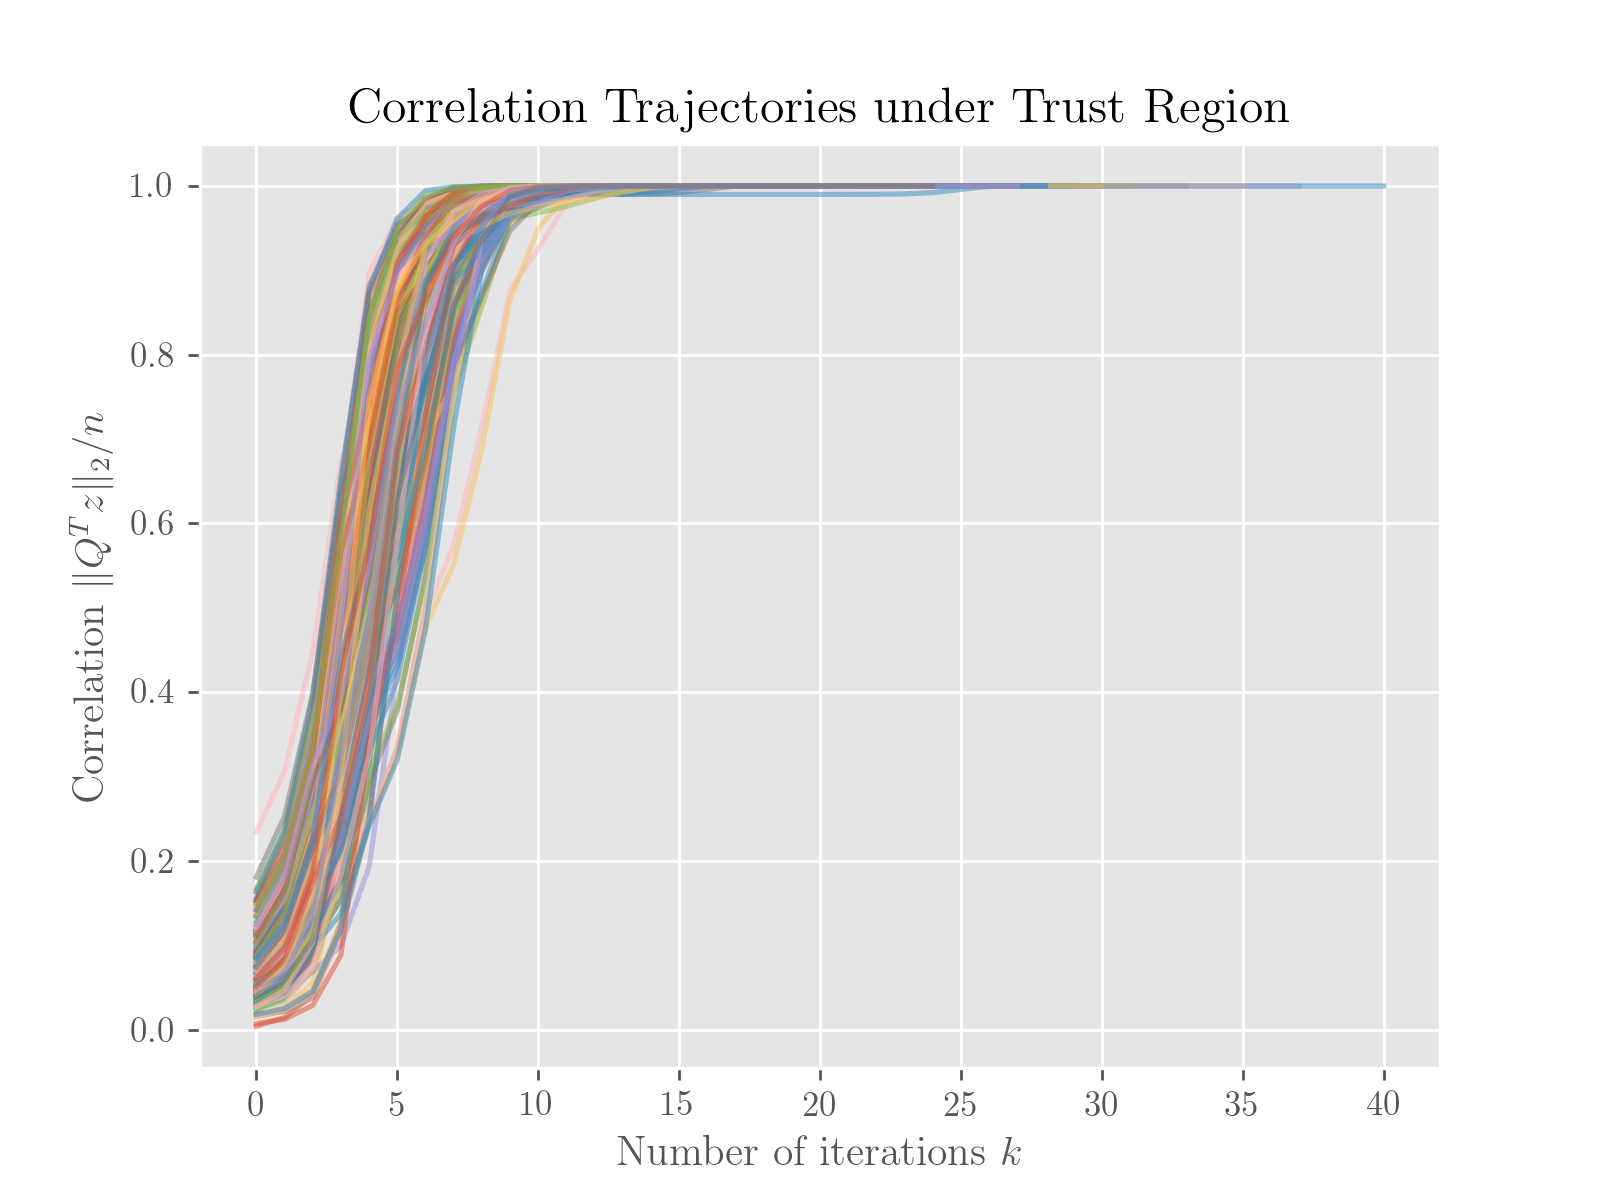
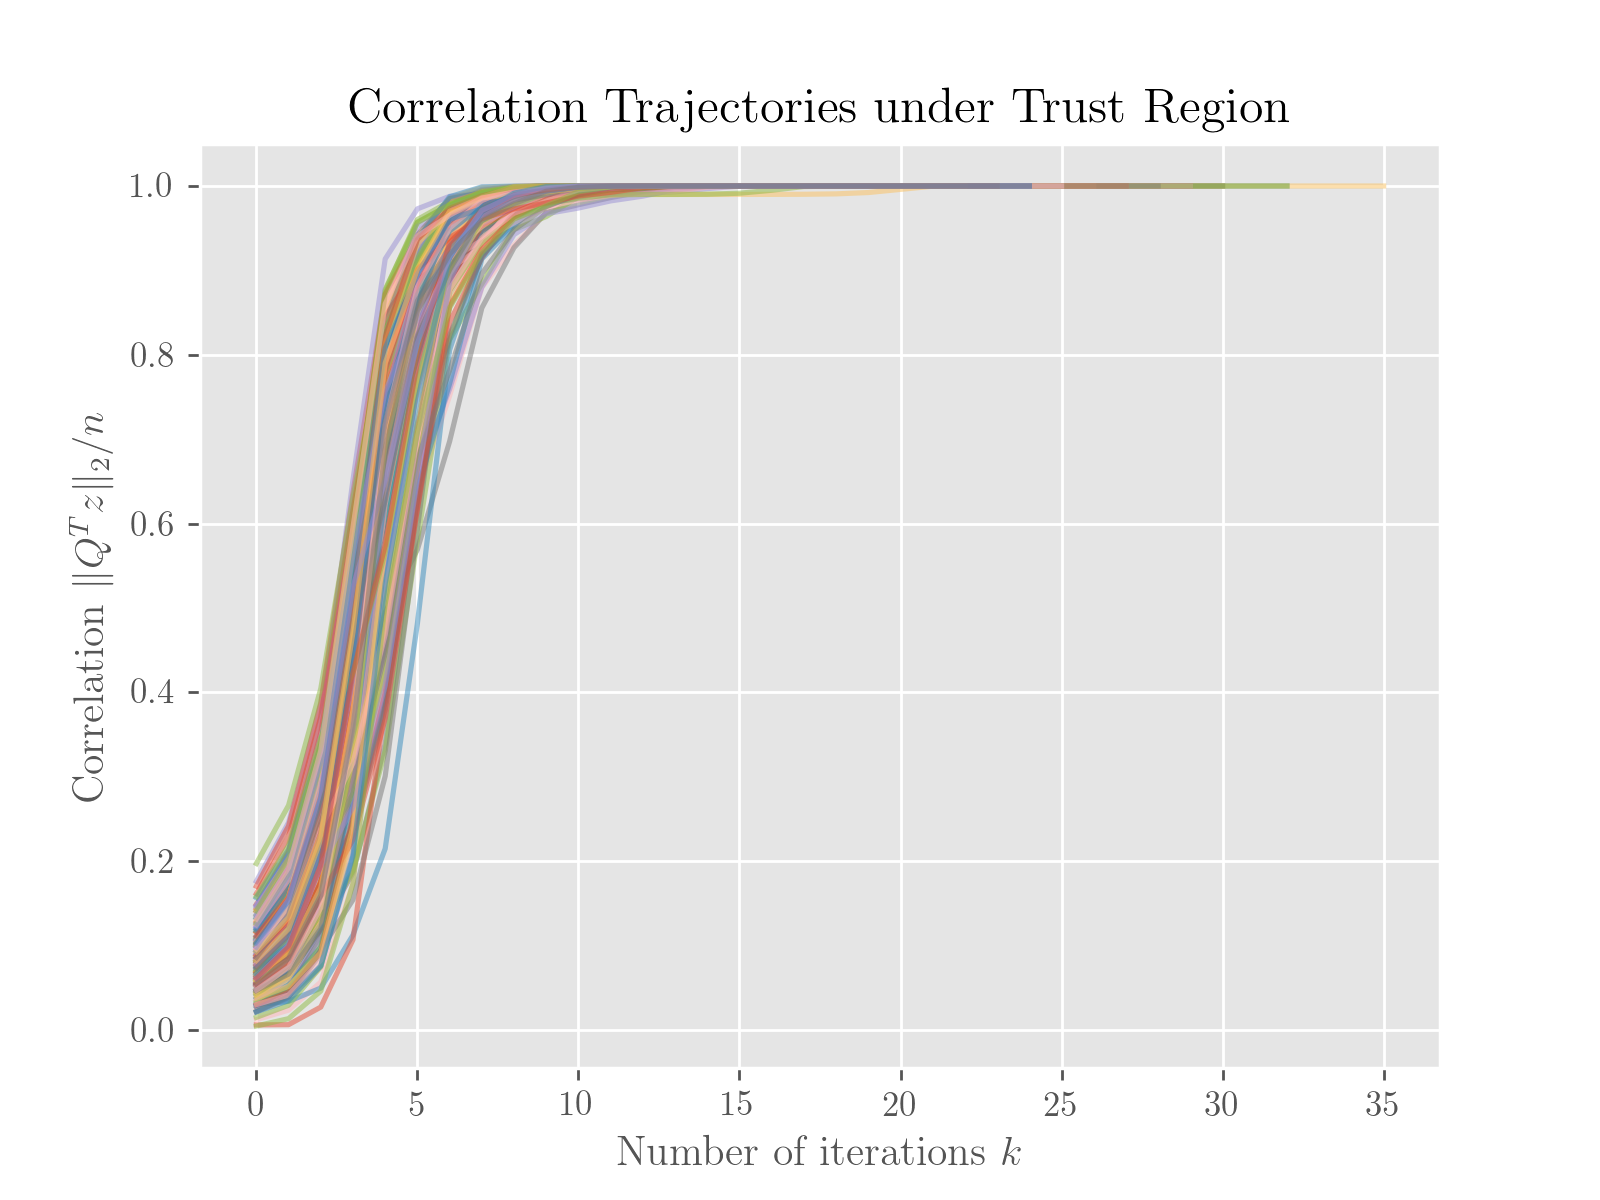
fix bug

diff --git a/basin_of_attraction.py b/basin_of_attraction.py
@@ -39,12 +39,12 @@ def correlation_landscape(A, z, loops):
     for i in range(loops):
         correlation_arr = []
         result = bm.trust_region(A, 2, plotting=False, printing=False, correlation_arr=correlation_arr, ground_truth=z)
-        Q = bm._vector_to_matrix(result.x, 2)
-        QT = Q.transpose()
-        correlation = np.linalg.norm(QT.dot(z)) / z.shape[0]
-        if correlation > .95:
-            correlation_arr = np.array(correlation_arr)
-            correlation_arr_array.append(correlation_arr)
+        # Q = bm._vector_to_matrix(result.x, 2)
+        # QT = Q.transpose()
+        # correlation = np.linalg.norm(QT.dot(z)) / z.shape[0]
+        # if correlation > .95:
+        correlation_arr = np.array(correlation_arr)
+        correlation_arr_array.append(correlation_arr)
     return correlation_arr_array
 
 
@@ -191,7 +191,7 @@ def get_nearby_pt(ground_truth, distance):
 
 
 if __name__ == '__main__':
-    A, z = get_observation(200, 6, 'sync')
+    A, z = get_observation(200, 2, 'sync')
 
     # # Draw landscape near the ground truth
     # info = landscape(A, z, max_radius=500)
